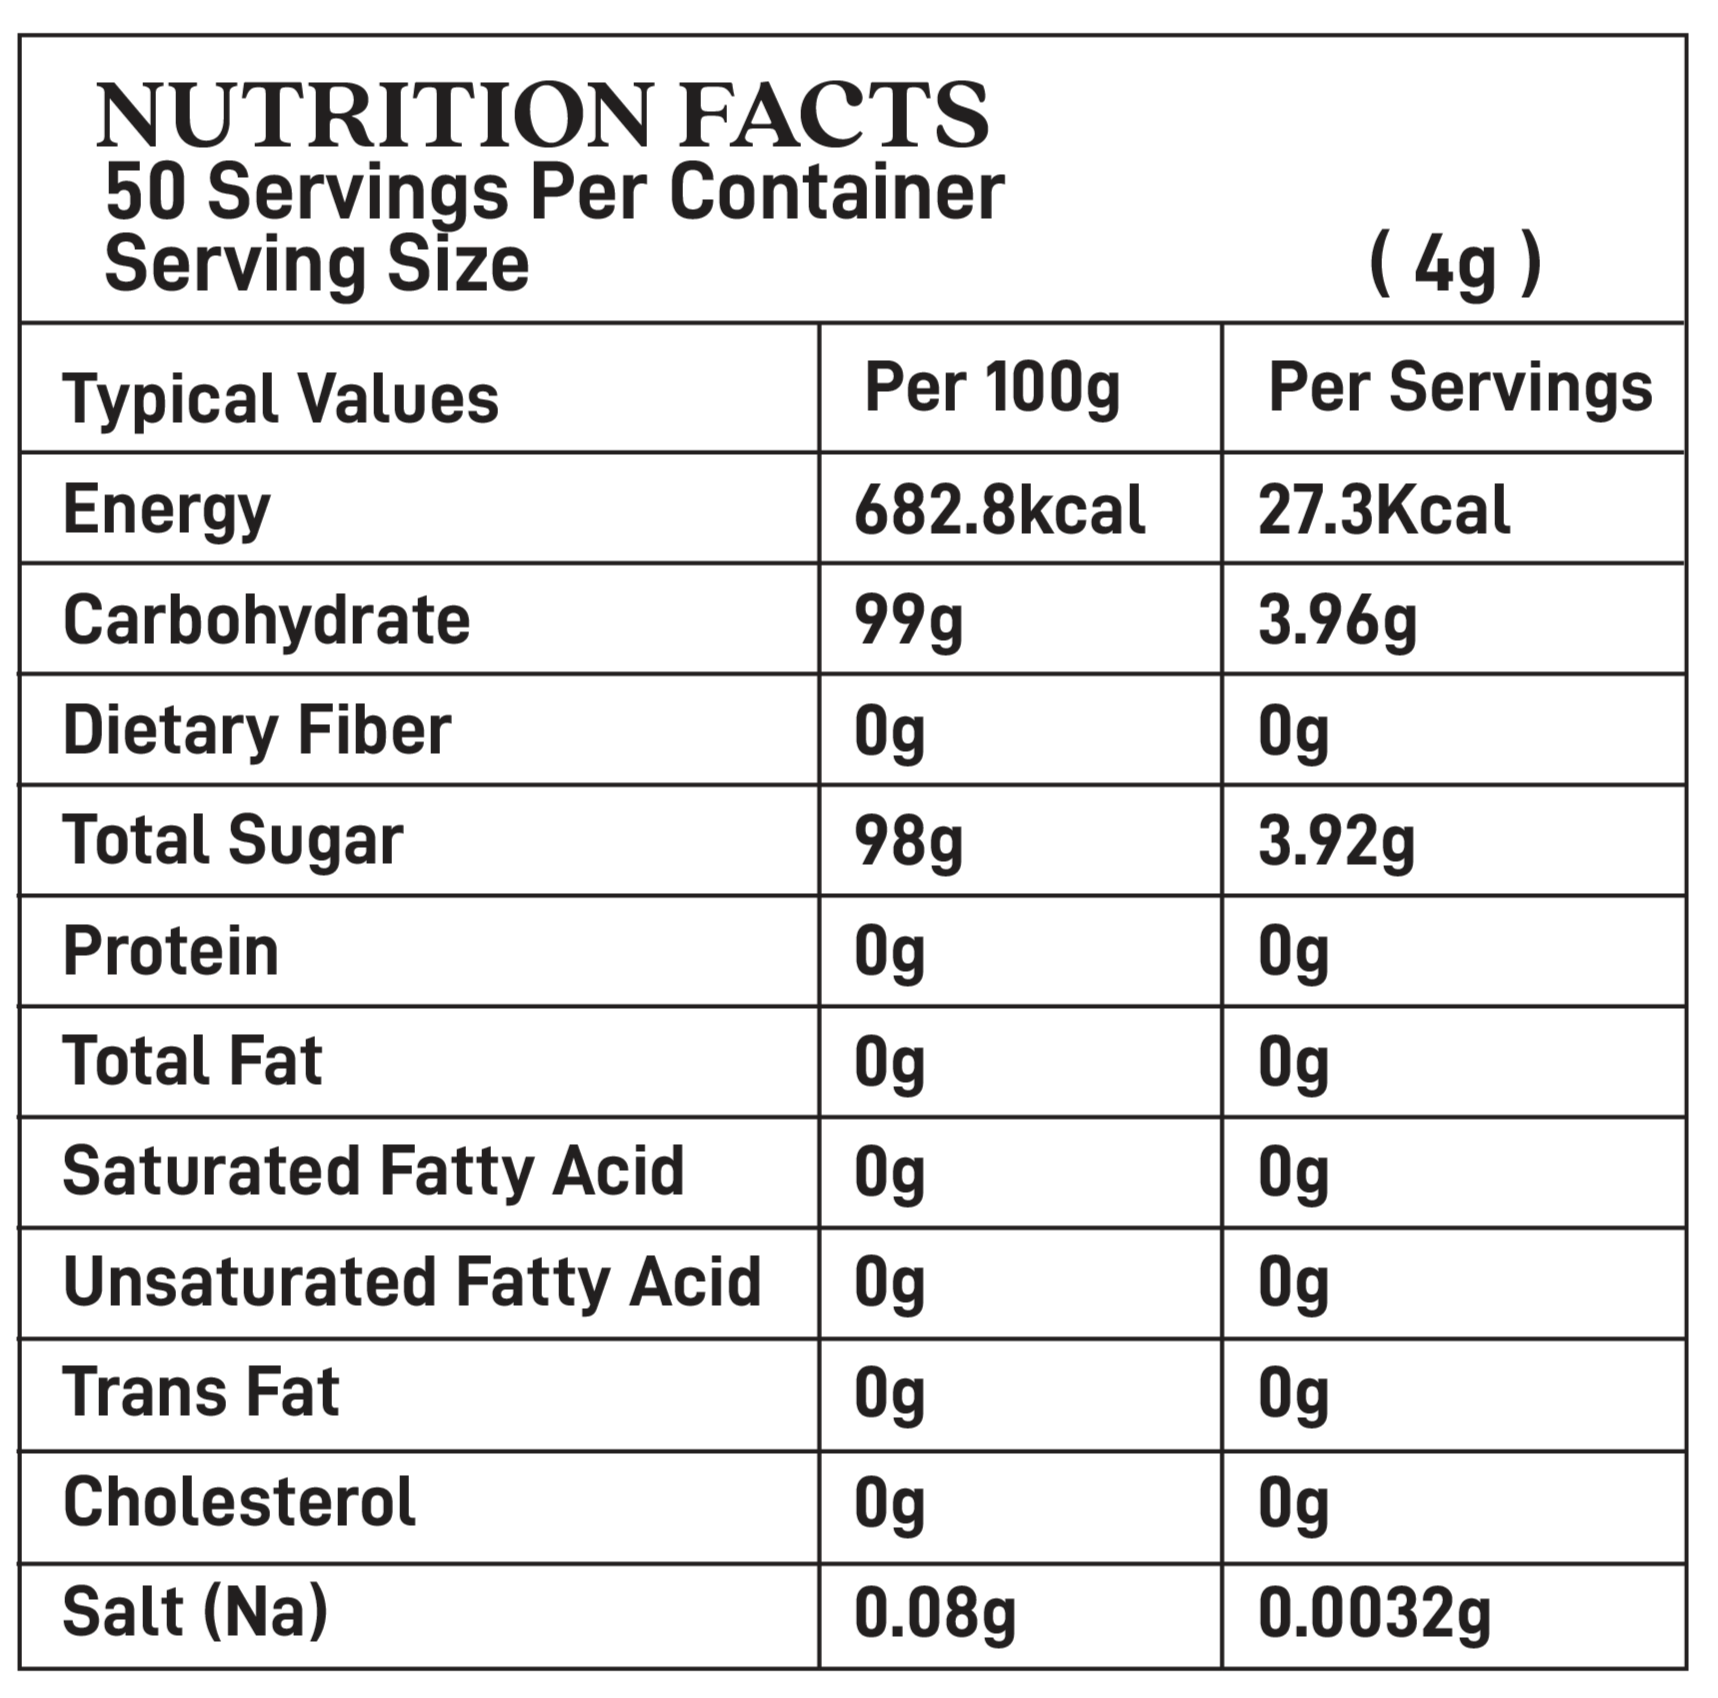
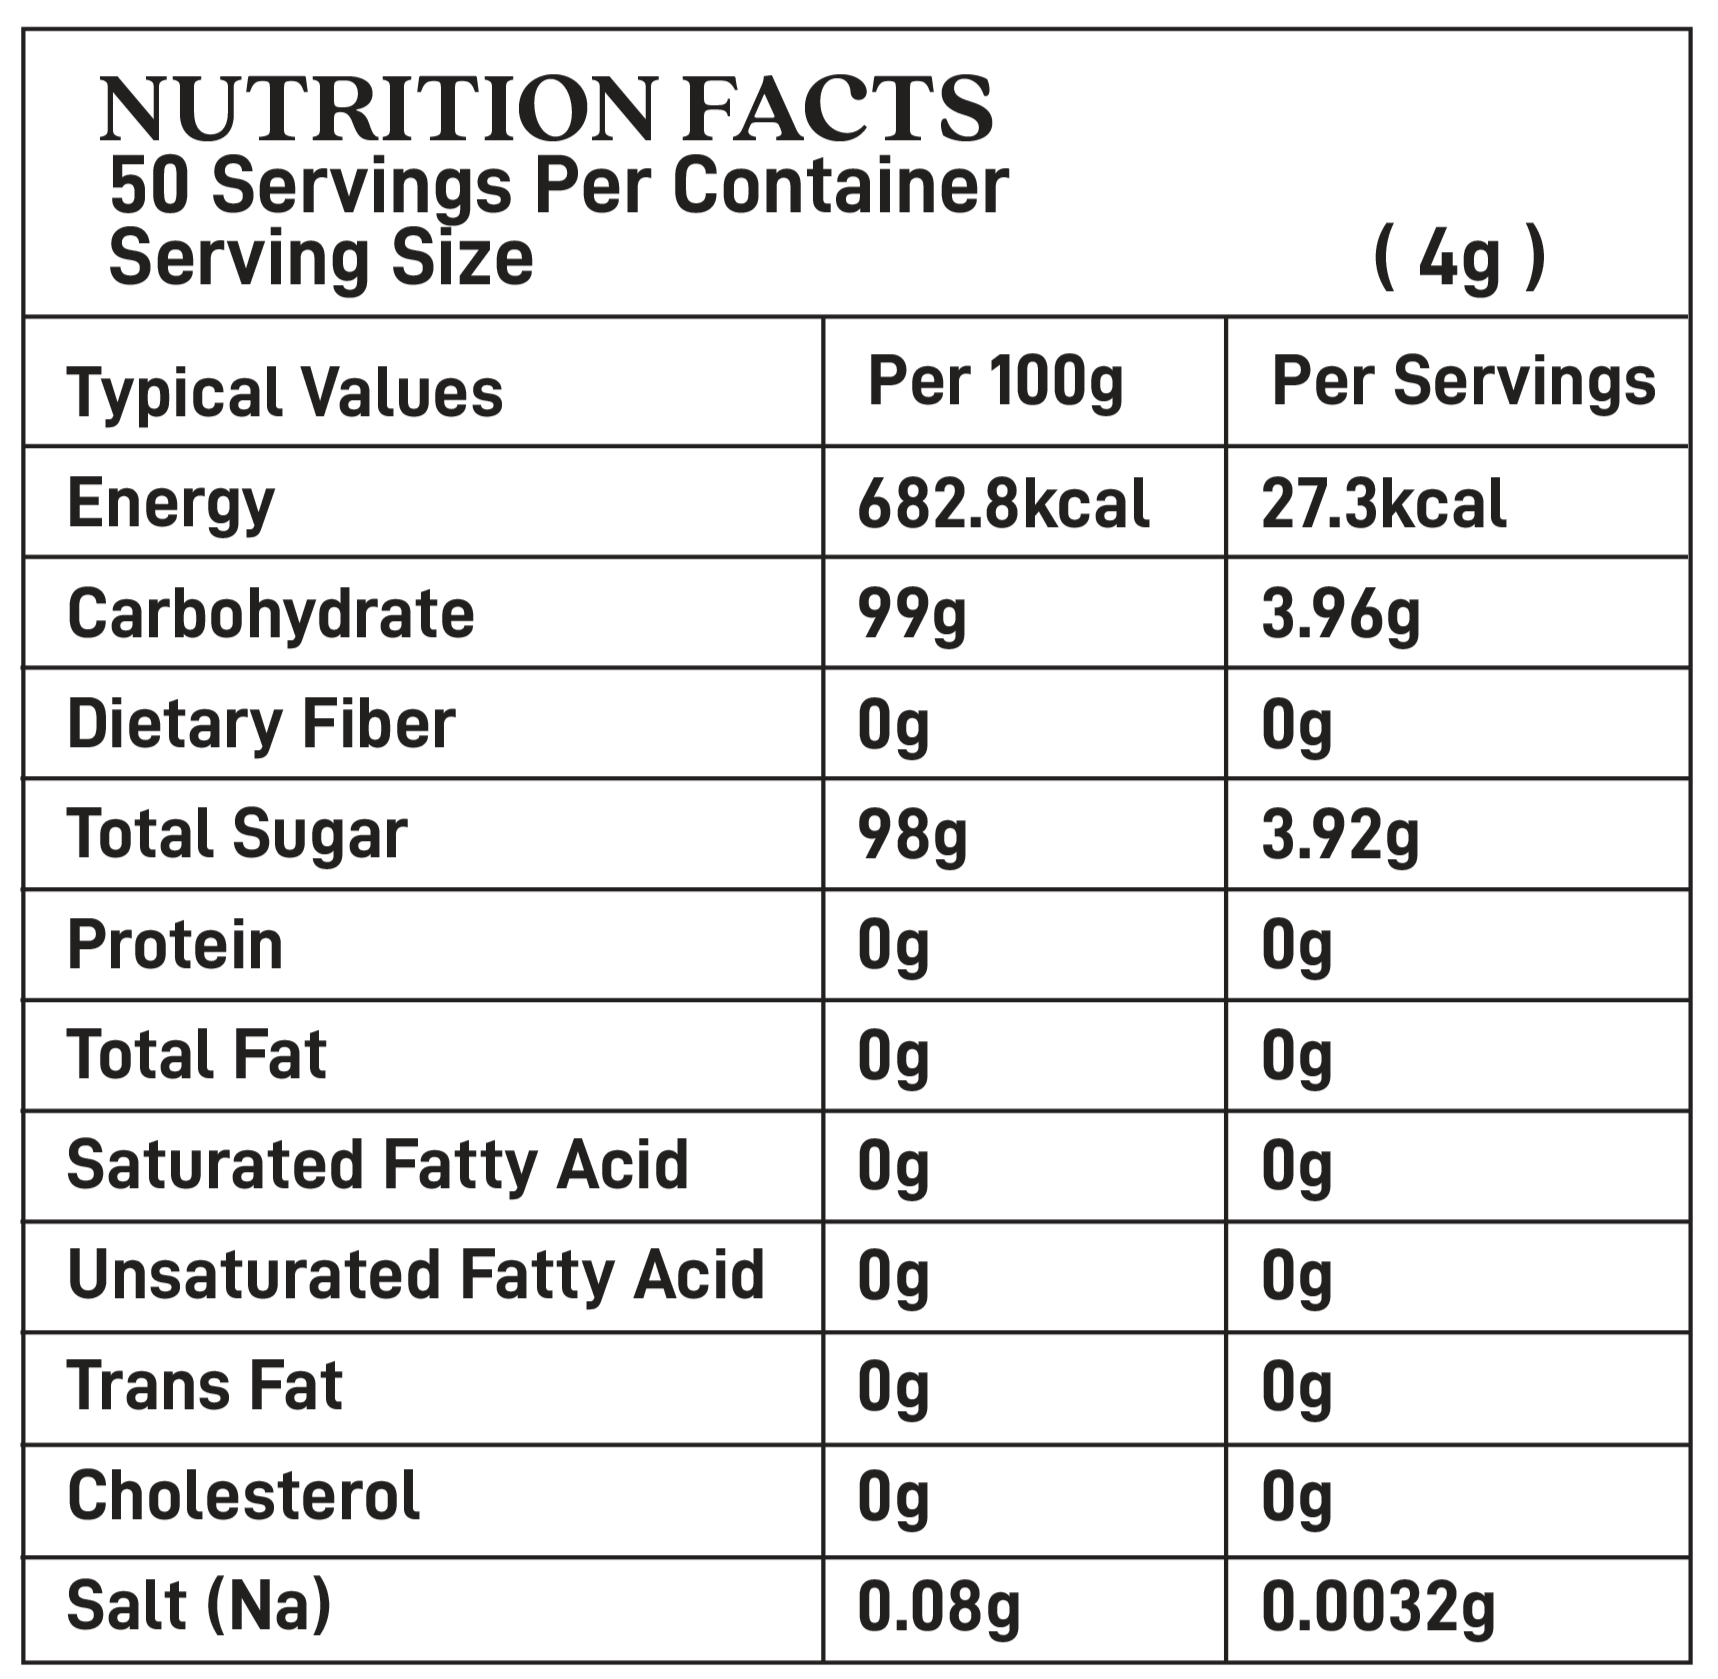
Product info modified

Changed region(s): [[0.0, 0.0, 0.9872, 0.9911]]

diff --git a/src/data/page.ts b/src/data/page.ts
@@ -34,7 +34,7 @@ export const data = {
     },
     subTitle: "Baked Chips",
     description: {
-      text: "Tropcey Organic Sweet Coconut Chips are made by natural coconut meat with absolutely no additives or preservatives. These chips taste great and add a delightful crunchy coconut texture and flavour to everyday recipes.\n\nAdding to the vibrant tastes, comes in two different flavours.",
+      text: "Tropcey Organic Sweet Coconut Chips are made from natural coconut meat with absolutely no additives or preservatives. These chips taste great and add a delightful crunchy coconut texture and flavour to everyday recipes.\n\nAdding to the vibrant tastes, comes in two different flavours.",
       color: "white",
     },
 
@@ -64,7 +64,7 @@ export const data = {
       {
         title: "Ingredient",
         subTitle:
-          "Organic Dried Coconut, Organic Coconut Syrup, Organic Coconut Sugar.",
+          "Organic Dried Coconut Kernel, Organic Coconut Syrup, Organic Coconut Sugar.",
         color: "white",
       },
       {
@@ -113,7 +113,7 @@ export const data = {
     brandingTitle:
       "Healthy snack, as a topping on salads, desserts and cereals",
     brandingSubtitle: {
-      text: "Snack the Authentic Tropical Way",
+      text: "Snack The Authentic Tropical Way",
       color: "#751F24",
       // gapTopMobile: "30px",
       // gapTopMd: "30px",
@@ -170,7 +170,7 @@ export const data = {
       color: "#751F24",
     },
     description: {
-      text: "Tropcey Organic Toasted Coconut Chips are made by natural coconut meat with absolutely no additives or preservatives. These chips taste great and add a delightful crunchy coconut texture and flavour to everyday recipes.\n\nAdding to the vibrant tastes, comes in two different flavours.",
+      text: "Tropcey Organic Toasted Coconut Chips are made from natural coconut meat with absolutely no additives or preservatives. These chips taste great and add a delightful crunchy coconut texture and flavour to everyday recipes.\n\nAdding to the vibrant tastes, comes in two different flavours.",
       color: "white",
     },
 
@@ -199,7 +199,7 @@ export const data = {
     itemDetails: [
       {
         title: "Ingredient",
-        subTitle: "Organic Dried Coconut.",
+        subTitle: "Organic Dried Coconut Kernel.",
         color: "white",
       },
       {
@@ -227,7 +227,7 @@ export const data = {
     nutritionChart: "/images/toasted-chips-nutrition-chart.png",
     life: "12 Months",
     brandingSubtitle: {
-      text: "Snack the Authentic Tropical Way",
+      text: "Snack The Authentic Tropical Way",
       color: "#751F24",
       // gapTopMobile: "30px",
       // gapTopMd: "30px",
@@ -404,7 +404,7 @@ export const data = {
         color: "#3B281B",
       },
       {
-        text: "Low GI",
+        text: "Low GI (Glycemic Index)",
         color: "#3B281B",
       },
       {
@@ -497,7 +497,7 @@ export const data = {
       px: "80px",
     },
     description: {
-      text: "Tropcey Organic Desiccated Coconut is made by natural coconut meat with no additives or preservatives. It is a natural source of dietary fiber and will give your recipes a unique flavour and texture.\nIt is one of the best available natural sources of dietary fiber. Versatile applicability and the organic and natural pedigree, makes it a perfect selection for everyday cooking.",
+      text: "Tropcey Organic Desiccated Coconut is made from natural coconut meat with no additives or preservatives. It is a natural source of dietary fiber and will give your recipes a unique flavour and texture.\nIt is one of the best available natural sources of dietary fiber. Versatile applicability and the organic and natural pedigree, makes it a perfect selection for everyday cooking.",
       sectionTitle: "Versatile & Multi-Purpose Use",
       bulletPoints: [
         "Commonly used for various cooking and baking needs.",
@@ -533,7 +533,7 @@ export const data = {
     itemDetails: [
       {
         title: "Ingredient",
-        subTitle: "Organic Dried Coconut.",
+        subTitle: "Organic Dried Coconut Kernel.",
         color: "white",
       },
       {
@@ -731,7 +731,7 @@ export const data = {
         subTitle:
           "Coconut Puree (Creamed Coconut),\nCocoa Powder, Sugar, Palm Fat, Salt,\nMilk Flavour.",
         color: "white",
-        subTitle2: "‘‘Contains : Cow Milk’’",
+        subTitle2: "‘‘Contain : Cow Milk’’",
         fontWeight: "bold",
       },
       {
@@ -1554,7 +1554,7 @@ export const data = {
       px: "30px",
     },
     description: {
-      text: `Tropcey Organic Coconut Vinegar is produced from pure fermented coconut water.`,
+      text: `Tropcey Organic Coconut water Vinegar is produced from pure fermented coconut water.`,
       color: "white",
     },
     ingrediants2: [
@@ -1564,10 +1564,6 @@ export const data = {
       },
       {
         text: "Certified Organic – Quality Guaranteed",
-        color: "#284E2A",
-      },
-      {
-        text: "Fresh & Pure",
         color: "#284E2A",
       },
       {
@@ -1670,7 +1666,7 @@ export const data = {
     },
     ingrediants2: [
       {
-        text: "Low GI",
+        text: "Low GI (Glycemic Index)",
         color: "#372115",
       },
       {
